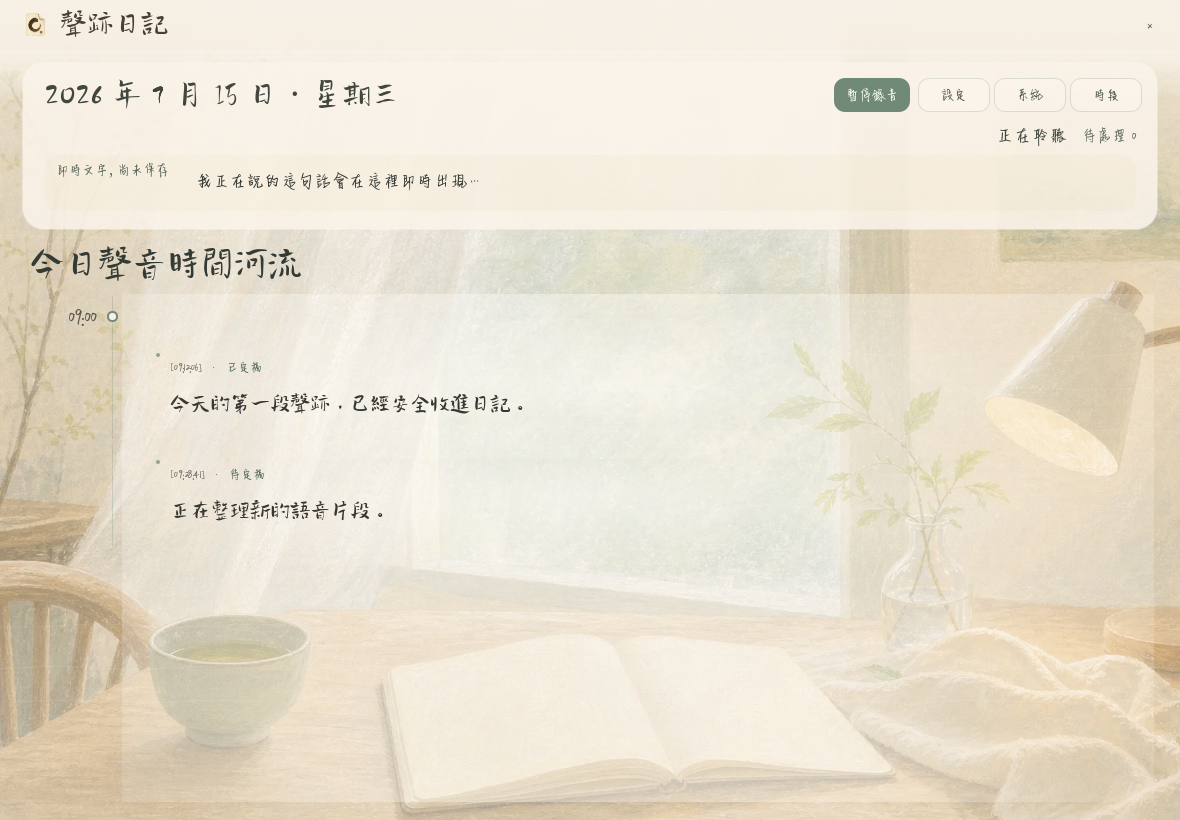
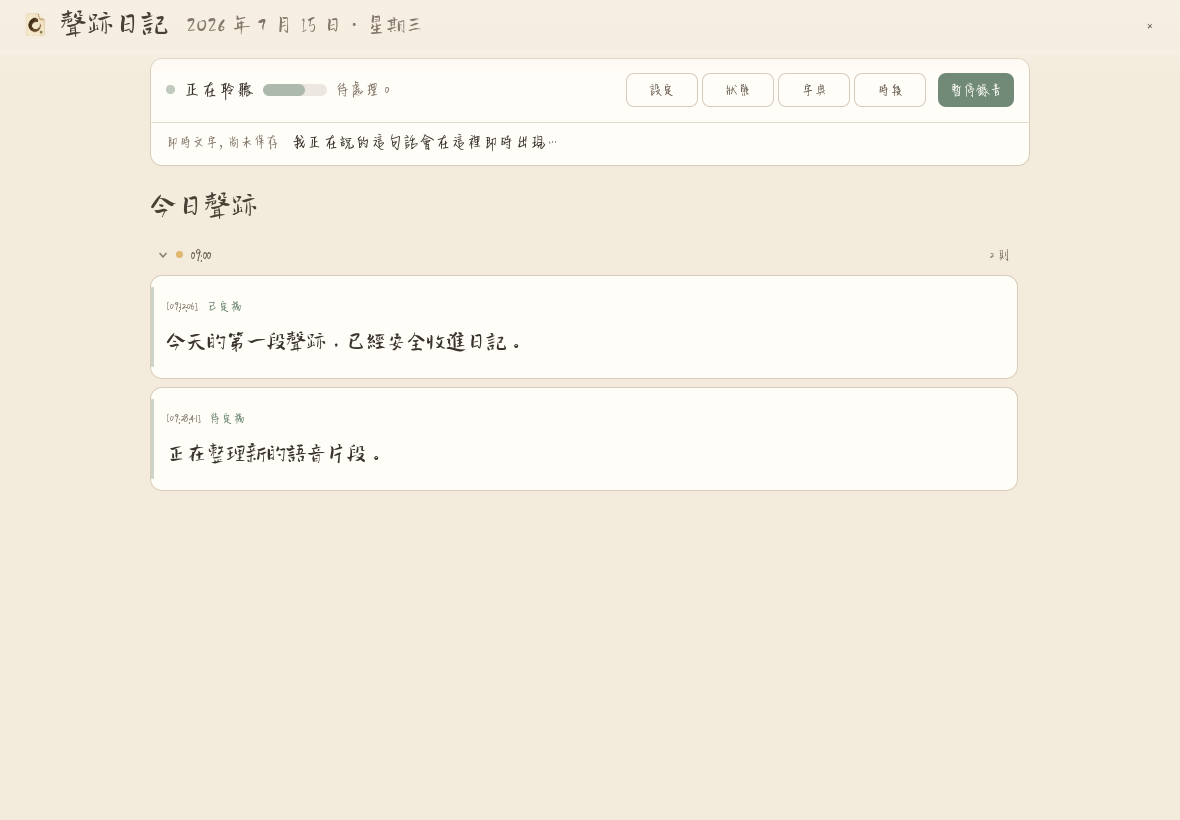
docs: 更新 CHANGELOG 與介面圖
CHANGELOG 補上重建的 Changed 段落。README 的工作區截圖與示範 GIF 仍停留在舊的
水彩版本，一併以新介面重新產生。

diff --git a/CHANGELOG.md b/CHANGELOG.md
@@ -27,6 +27,21 @@ adheres to [Semantic Versioning](https://semver.org/spec/v2.0.0.html).
   pixels between runs of the same revision, and the gate matrix silently collapsed its
   `default` and `large` window sizes onto one clamped size.
 
+### Changed
+
+- The interface was rebuilt around cards on plain paper. The date moved into the
+  title bar so the workspace leads with one 64px control row instead of a 146px
+  card; saved segments became cards grouped under collapsible hour headers that
+  show their segment count; journal text is capped to a readable measure and
+  centred rather than stretching to the window; the compact recorder uses its
+  full width now that the scene strip is gone; and the settings drawer is grouped
+  into six titled sections with a pinned save action.
+- `qml/Theme.qml` is now the single source of colour, spacing and rhythm, with a
+  regression test asserting no colour literal survives in the rebuilt surfaces.
+- `SystemSheet` and `HoursSheet` scroll and clip. They previously had no bottom
+  anchor, so at the largest journal font their content ran off the drawer with
+  nothing to reveal it.
+
 ### Added
 
 - `tools/compare_ui_baselines.py`, which compares two baseline directories on peak per-channel
